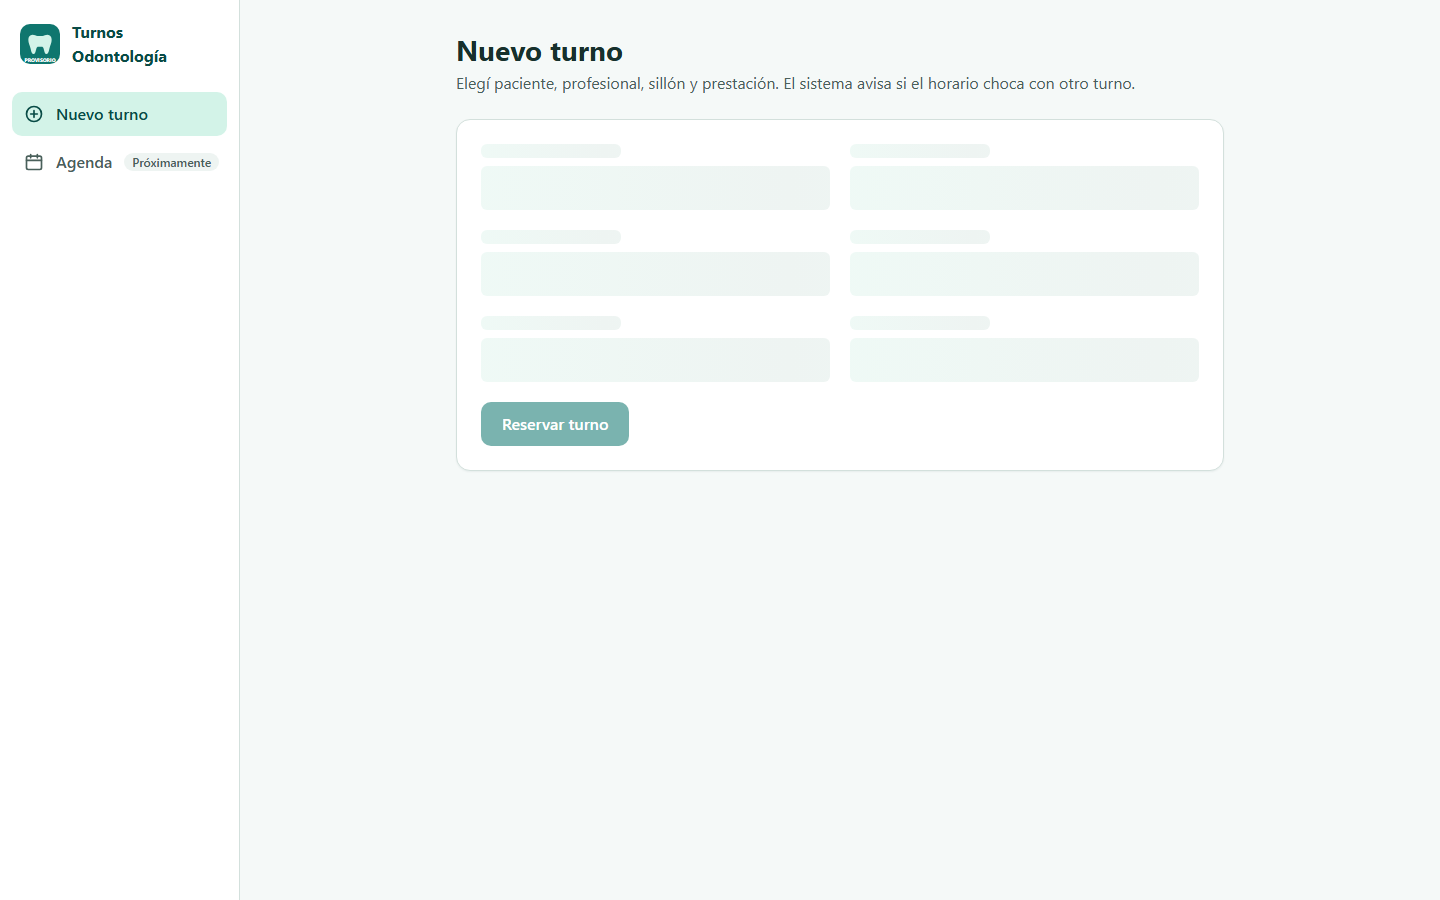
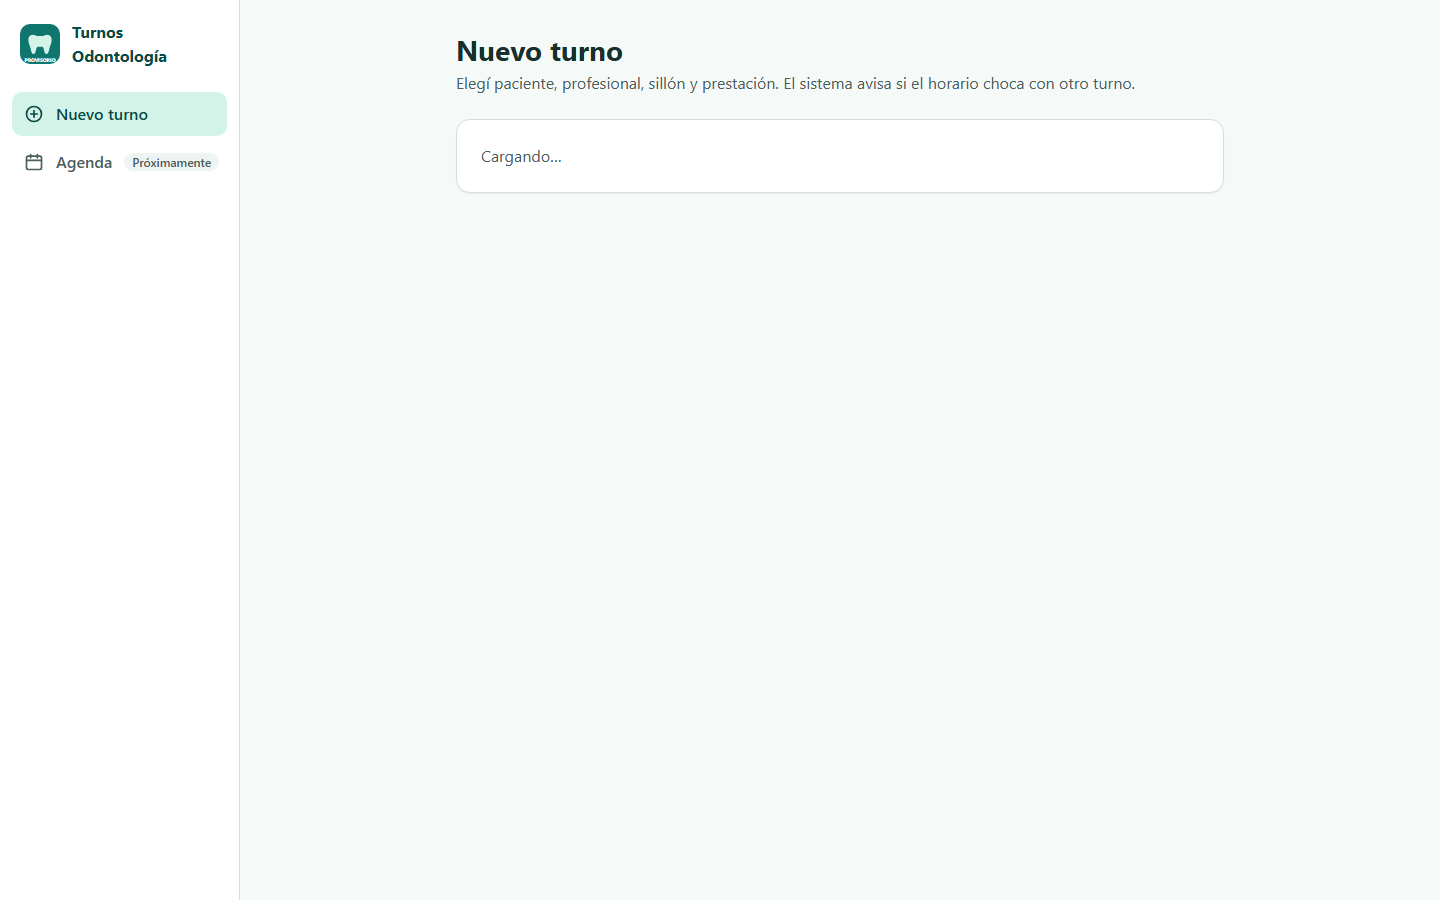
docs: ajustar propuesta de interfaz-web-base

Changed region(s): [[0.3125, 0.4356, 0.4375, 0.4978], [0.3438, 0.1556, 0.375, 0.1867]]

diff --git a/openspec/changes/interfaz-web-base/mockups/nuevo-turno.html b/openspec/changes/interfaz-web-base/mockups/nuevo-turno.html
@@ -65,24 +65,9 @@
     .alert-warning { background: var(--color-warning-50); border-color: var(--color-warning-200); color: var(--color-warning-700); }
     .alert-success { background: var(--color-success-50); border-color: var(--color-success-200); color: var(--color-success-700); }
 
-    .skeleton { height: var(--control-height); border-radius: var(--radius-sm); background: linear-gradient(90deg, var(--color-surface-muted), var(--color-primary-50), var(--color-surface-muted)); background-size: 200% 100%; animation: shimmer 1.4s linear infinite; }
-    .skeleton.label { height: 14px; width: 40%; }
-    @keyframes shimmer { to { background-position: -200% 0; } }
+    .cargando { color: var(--color-text-muted); }
 
-    .sr-only { position: absolute; width: 1px; height: 1px; padding: 0; margin: -1px; overflow: hidden; clip: rect(0, 0, 0, 0); white-space: nowrap; border: 0; }
-
-    @media (max-width: 48rem) {
-      .app { grid-template-columns: 1fr; grid-template-rows: auto 1fr; }
-      .sidebar { flex-direction: row; align-items: center; justify-content: space-between; padding: var(--space-3) var(--space-4); border-right: 0; border-bottom: 1px solid var(--color-border); position: sticky; top: 0; z-index: 1; gap: var(--space-3); }
-      .brand strong { display: none; }
-      .nav { flex-direction: row; }
-      .nav .soon { display: none; }
-      .main { padding: var(--space-5) var(--space-4) var(--space-10); }
-      .page-header h1 { font-size: var(--text-xl); }
-      .form-grid { grid-template-columns: 1fr; }
-      .card { padding: var(--space-4); }
-      .row .btn { flex: 1 1 auto; }
-    }
+    /* Solo escritorio: la vista móvil quedó fuera de este change (design.md, "Ajuste de alcance"). */
   </style>
 </head>
 <body>
@@ -112,16 +97,8 @@
       </header>
 
       <!-- Estado: cargando catálogos -->
-      <div class="card stack" data-estado="cargando" aria-busy="true" aria-label="Cargando datos del formulario">
-        <div class="form-grid">
-          <div class="field"><div class="skeleton label"></div><div class="skeleton"></div></div>
-          <div class="field"><div class="skeleton label"></div><div class="skeleton"></div></div>
-          <div class="field"><div class="skeleton label"></div><div class="skeleton"></div></div>
-          <div class="field"><div class="skeleton label"></div><div class="skeleton"></div></div>
-          <div class="field"><div class="skeleton label"></div><div class="skeleton"></div></div>
-          <div class="field"><div class="skeleton label"></div><div class="skeleton"></div></div>
-        </div>
-        <div class="row"><button class="btn btn-primary" type="button" disabled>Reservar turno</button></div>
+      <div class="card" data-estado="cargando" aria-busy="true">
+        <p class="cargando" role="status">Cargando…</p>
       </div>
 
       <!-- Estado: sin conexión al cargar o al reservar -->

diff --git a/openspec/changes/interfaz-web-base/mockups/index.html b/openspec/changes/interfaz-web-base/mockups/index.html
@@ -20,10 +20,10 @@
 <body>
 <main>
   <h1>Mockups de C-11 · interfaz-web-base</h1>
-  <p>Design system revisión 1. Datos ficticios. Capturas en <code>previews/</code> (1440×900 y 390×844).</p>
+  <p>Design system revisión 1. Datos ficticios. Capturas en <code>previews/</code> (solo escritorio, 1440×900).</p>
   <ul>
     <li><a href="nuevo-turno.html?estado=listo">Nuevo turno · listo<small>Formulario completo, menú con Agenda "Próximamente"</small></a></li>
-    <li><a href="nuevo-turno.html?estado=cargando">Nuevo turno · cargando<small>Skeleton mientras llegan los catálogos</small></a></li>
+    <li><a href="nuevo-turno.html?estado=cargando">Nuevo turno · cargando<small>Texto "Cargando…" mientras llegan los catálogos</small></a></li>
     <li><a href="nuevo-turno.html?estado=reservando">Nuevo turno · reservando<small>Botón deshabilitado, sin doble envío</small></a></li>
     <li><a href="nuevo-turno.html?estado=exito">Nuevo turno · éxito<small>201: turno reservado con nombres y horario</small></a></li>
     <li><a href="nuevo-turno.html?estado=error-409">Nuevo turno · error 409<small>Sillón ocupado, con el turno en conflicto</small></a></li>

diff --git a/openspec/changes/interfaz-web-base/design.md b/openspec/changes/interfaz-web-base/design.md
@@ -21,6 +21,7 @@
 - Router, manejo de estado global o librerías de UI. Con dos ítems de menú alcanza con estado local.
 - Tests automáticos de componentes o de punta a punta en el navegador. Las pantallas se verifican a mano contra el mockup.
 - Compartir código TypeScript entre la raíz y `web/`.
+- Vista móvil: la pantalla se diseña y verifica solo para escritorio (1440×900). Ver "Ajuste de alcance".
 
 ## Decisions
 
@@ -63,7 +64,7 @@ Cada ruta declara `response: { 200: { type: 'array', items: { type: 'object', ad
 - **Tests** (Vitest en `web/`, P3): una fecha de diciembre da `-03:00`; con otra zona (`Europe/Madrid`, invierno) da `+01:00`, lo que prueba que no está fijo; `GMT` sin horas da `+00:00`; y el resultado no depende de `process.env.TZ`.
 
 ### D8 — Comportamiento de la pantalla Nuevo turno
-- Al montar: carga los catálogos y muestra un skeleton. Si falla, muestra un aviso con "Reintentar".
+- Al montar: carga los catálogos y muestra el texto "Cargando…" (`role="status"`). Si falla, muestra un aviso con "Reintentar".
 - Fecha por defecto: hoy en la zona del consultorio. Hora vacía, con `step="900"`, que es solo una ayuda.
 - Reservar: deshabilita el botón (`aria-busy`, "Reservando…") y no permite doble envío.
 - Éxito: aviso verde con nombres y horario. Los nombres salen de los catálogos cargados: paciente "Nombre Apellido", profesional, sillón, y "martes 1/12, 10:00 a 10:30". Se limpia la hora y se conservan los demás campos para reservar otro turno rápido.
@@ -78,6 +79,18 @@ Cada ruta declara `response: { 200: { type: 'array', items: { type: 'object', ad
 ### D10 — Orden de implementación en dos tramos (P4)
 1. **Tramo API** (no espera el mockup): D1–D3 y D9 de la raíz.
 2. **Tramo pantallas** (espera `Approval: approved`): D4–D8, los tests de `web/` y el README.
+
+### Ajuste de alcance (2026-11-24, Lucas)
+
+Después del Propose se recortó el alcance de las pantallas:
+
+1. **Solo escritorio.** La vista móvil queda fuera de este change. Sin media queries para celular en `web/`, sin mockups ni capturas a 390×844, y la verificación manual es solo a 1440×900.
+2. **Carga con texto simple.** Mientras llegan los catálogos se muestra "Cargando…" en lugar del skeleton animado.
+3. **Orden de profesionales sin cambios.** Se mantiene el orden alfabético por `nombre` ("Dr. Bruno Ejemplo" antes que "Dra. Ana Prueba"), como dice el spec `catalogos`.
+
+**Motivo**: el plazo. La entrega es el 25/11 a las 23:00 y, después de C-11, Lucas sigue con C-05. La recepción usa la computadora de escritorio (DD-08), así que el móvil no bloquea la demo. El skeleton es solo cosmético.
+
+**Desvío del design-system**: `design-system/README.md` pide capturas a 390×844 para cada change visual. Este change no las tiene a propósito. Si se retoma la vista móvil, va en un change aparte con su propio mockup.
 
 ## Risks / Trade-offs
 
@@ -103,13 +116,13 @@ Mockups en `openspec/changes/interfaz-web-base/mockups/` (importan `../../../../
 |---|---|
 | `index.html` | Índice con un enlace por estado |
 | `nuevo-turno.html?estado=listo` | Formulario completo, listo para reservar |
-| `nuevo-turno.html?estado=cargando` | Carga de catálogos (skeleton) |
+| `nuevo-turno.html?estado=cargando` | Carga de catálogos (texto "Cargando…") |
 | `nuevo-turno.html?estado=reservando` | Botón "Reservando…" deshabilitado |
 | `nuevo-turno.html?estado=exito` | Aviso verde "Turno reservado" |
 | `nuevo-turno.html?estado=error-409` | Aviso rojo de sillón ocupado con el conflicto |
 | `nuevo-turno.html?estado=error-422` | Aviso ámbar de grilla de 15 minutos y campo Hora marcado |
 | `nuevo-turno.html?estado=sin-conexion` | Aviso rojo de sin conexión con "Reintentar" |
 
-Capturas a 1440×900 y 390×844 en `mockups/previews/`. Todos los datos son ficticios del seed.
+Capturas a 1440×900 en `mockups/previews/` (solo escritorio, ver "Ajuste de alcance"). Todos los datos son ficticios del seed.
 
 Para aprobar, el líder cambia la línea a `Approval: approved (<fecha>, by Nazareno)`.

diff --git a/openspec/changes/interfaz-web-base/tasks.md b/openspec/changes/interfaz-web-base/tasks.md
@@ -32,9 +32,9 @@
 
 ## 6. `web/`: layout y pantalla Nuevo turno
 
-- [ ] 6.1 Implementar `web/src/estilos.css` (mismas clases y variables que `design-system/components.html`, sin valores sueltos) y `components/Layout` con el menú lateral: Nuevo turno activo y Agenda con `aria-disabled` y la marca "Próximamente" (oculta en móvil); verificar a mano contra `mockups/previews/nuevo-turno-listo-*.png`
-- [ ] 6.2 Implementar `components/Aviso` (success, warning y danger, con el código técnico en monoespaciada) y `pages/NuevoTurno` según design D8: carga con skeleton, error de carga con Reintentar, selects desde la API, fecha por defecto de hoy en la zona del consultorio, Reservar con `aria-busy`, aviso de éxito con nombres, 409 con lista de conflictos, 422 de grilla con el campo Hora marcado, y conservación de los campos tras un error; verificar que `cd web && npm run build` compila
-- [ ] 6.3 Verificar a mano con la API y la web levantadas, contra cada estado del mockup: reservar Paciente Ficticio Uno con la Dra. Ana Prueba en el Sillón 1 a las 10:00 (éxito), repetir con el Dr. Bruno Ejemplo en el Sillón 1 a las 10:15 (409 sillón), hora 10:10 (422) y API apagada (sin conexión). Guardar capturas a 1440×900 y 390×844 en `openspec/changes/interfaz-web-base/verify/`, solo con datos ficticios
+- [ ] 6.1 Implementar `web/src/estilos.css` (mismas clases y variables que `design-system/components.html`, sin valores sueltos) y `components/Layout` con el menú lateral: Nuevo turno activo y Agenda con `aria-disabled` y la marca "Próximamente". Solo escritorio: sin media queries para móvil (design, "Ajuste de alcance"); verificar a mano a 1440×900 contra `mockups/previews/nuevo-turno-listo-desktop-1440x900.png`
+- [ ] 6.2 Implementar `components/Aviso` (success, warning y danger, con el código técnico en monoespaciada) y `pages/NuevoTurno` según design D8: carga con el texto "Cargando…", error de carga con Reintentar, selects desde la API, fecha por defecto de hoy en la zona del consultorio, Reservar con `aria-busy`, aviso de éxito con nombres, 409 con lista de conflictos, 422 de grilla con el campo Hora marcado, y conservación de los campos tras un error; verificar que `cd web && npm run build` compila
+- [ ] 6.3 Verificar a mano con la API y la web levantadas, contra cada estado del mockup: reservar Paciente Ficticio Uno con la Dra. Ana Prueba en el Sillón 1 a las 10:00 (éxito), repetir con el Dr. Bruno Ejemplo en el Sillón 1 a las 10:15 (409 sillón), hora 10:10 (422) y API apagada (sin conexión). Guardar capturas a 1440×900 (solo escritorio) en `openspec/changes/interfaz-web-base/verify/`, solo con datos ficticios
 
 ## 7. Documentación e integración
 
